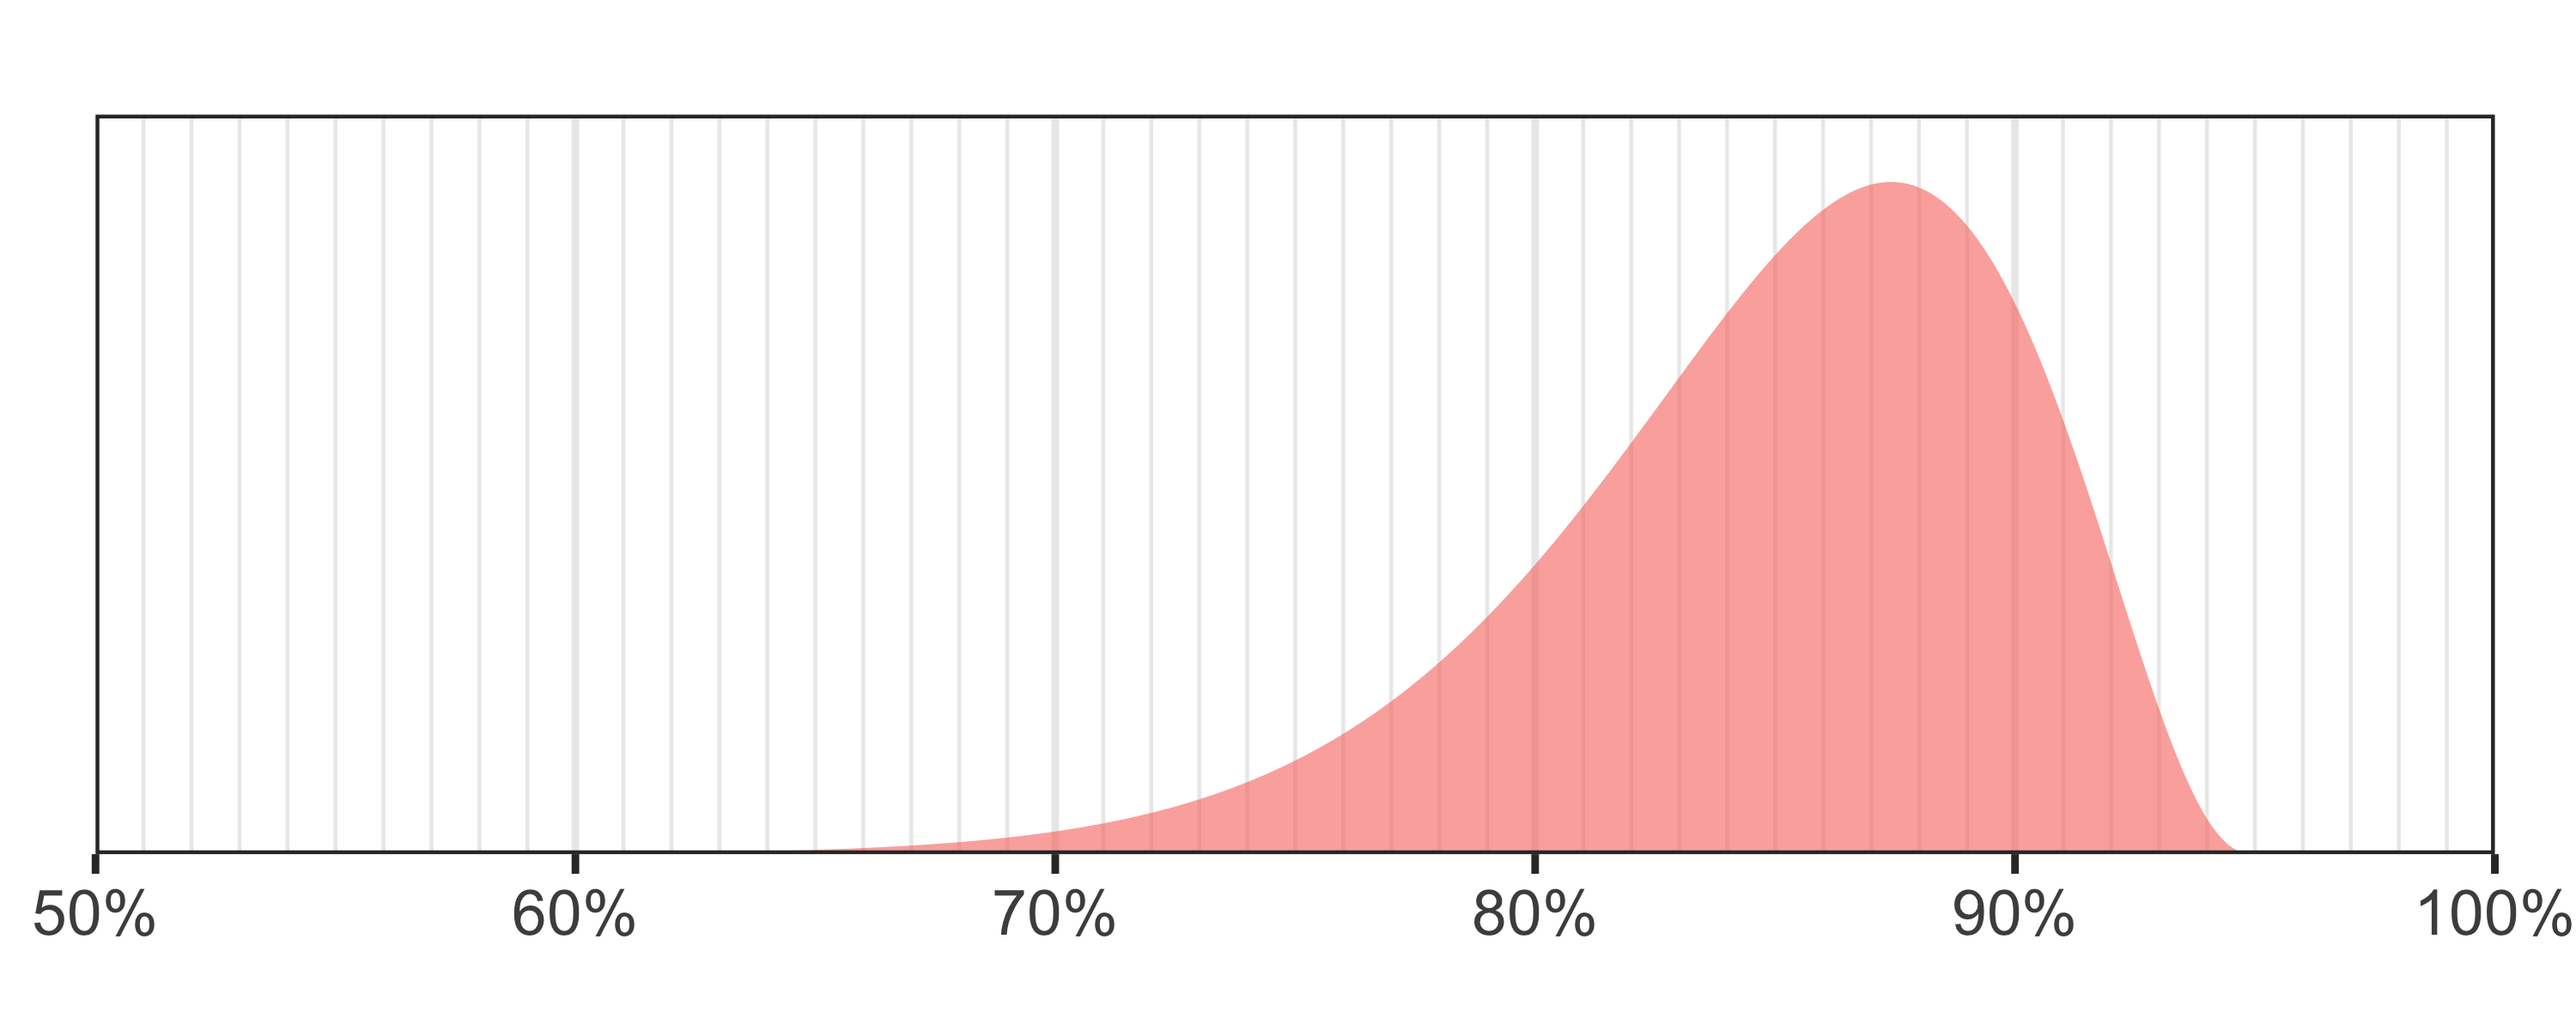
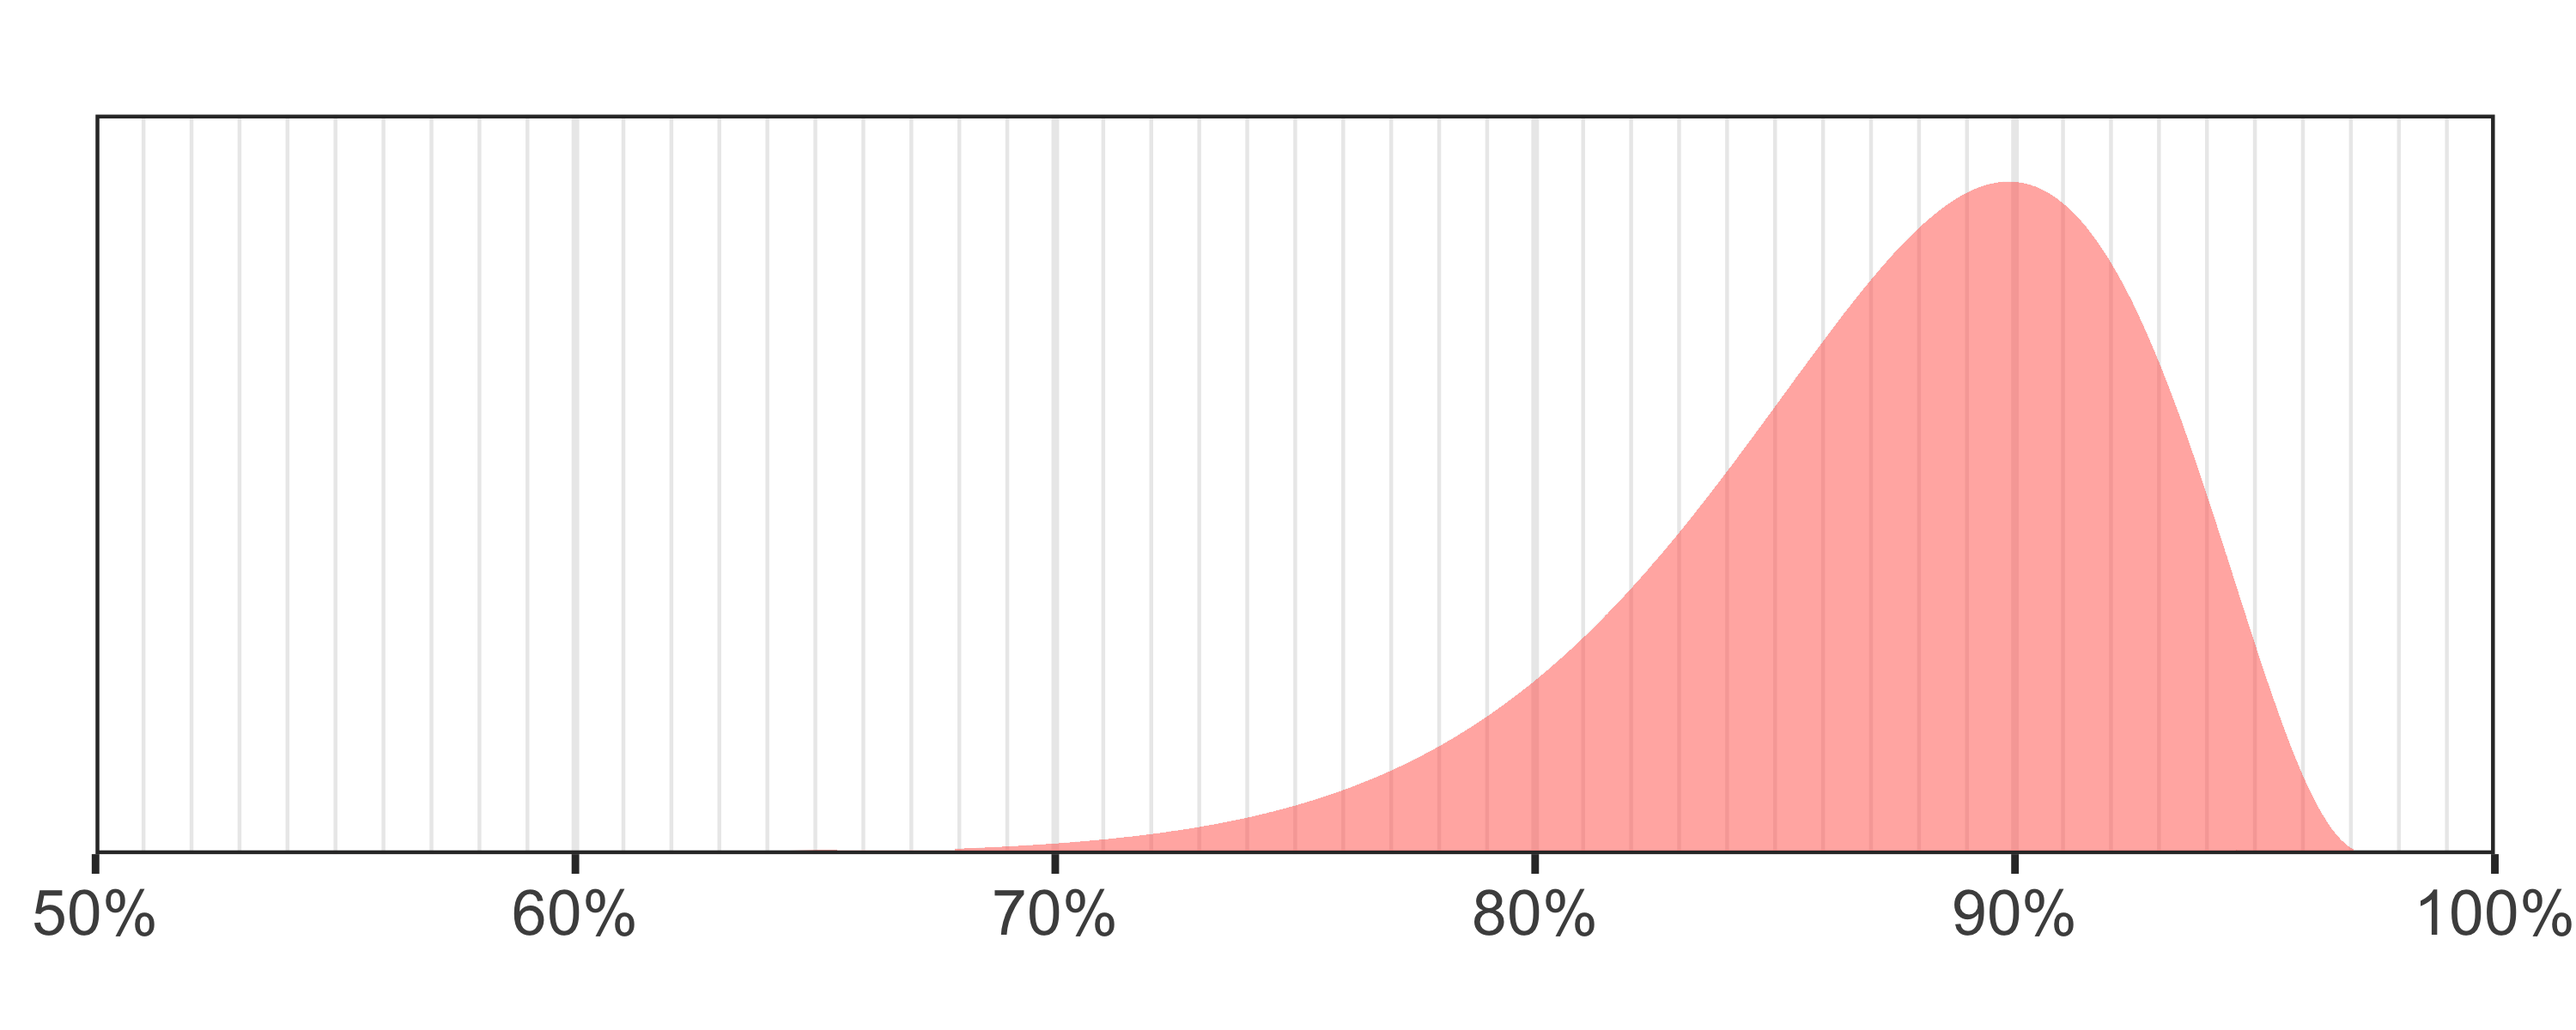
Update default identity distribution

Changed region(s): [[0.341, 0.1542, 0.93, 0.8325]]

diff --git a/README.md b/README.md
@@ -87,7 +87,7 @@ badread simulate --reference ref.fasta --quantity 50x \
     | gzip > reads.fastq.gz
 ```
 
-Alternatively, you can use Badread's built-in models to imitate older PacBio reads. This command also adjusts the identity and length distributions to be a bit more PacBio-like:
+Alternatively, you can use Badread's built-in models to imitate older PacBio reads. This command also adjusts the identity and length distributions to be a bit more PacBio2016-like:
 ```
 badread simulate --reference ref.fasta --quantity 50x \
     --error_model pacbio2016 --qscore_model pacbio2016 --identity 85,95,3 --length 7500,7500 \
@@ -244,7 +244,7 @@ Badread generates read identities from a [beta distribution](https://en.wikipedi
     <tr>
         <td>
             <img align="right" src="images/default_identities.png" alt="Default identity distribution" width="400">
-            Badread's default is <code>--identity 85,95,5</code> which correspond to an okay (but not great) Nanopore sequencing run.<br><br>
+            Badread's default is <code>--identity 87.5,97.5,5</code> which correspond to an okay (but not great) Nanopore sequencing run.<br><br>
             To see the equations and interactively explore how different parameters affect the distribution, check out <a href="https://www.desmos.com/calculator/q7qw6rq2lb">this Desmos plot</a>.
         </td>
     </tr>
